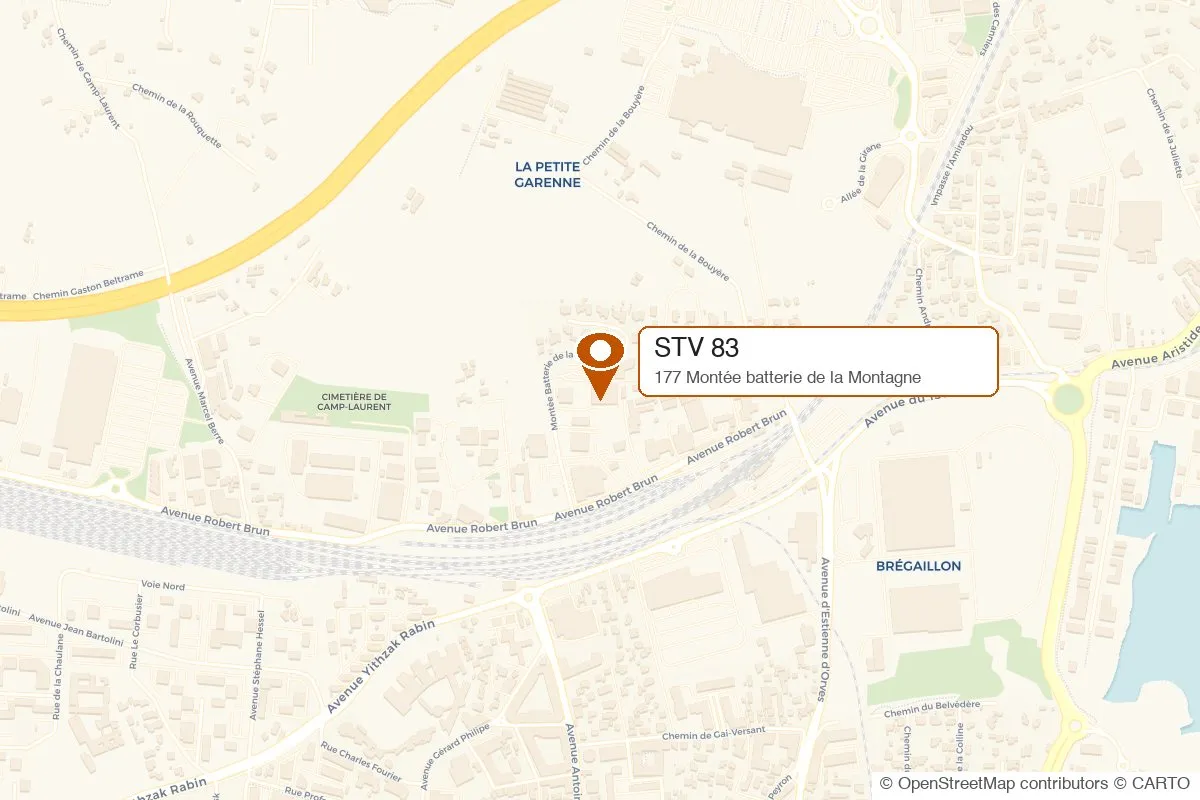
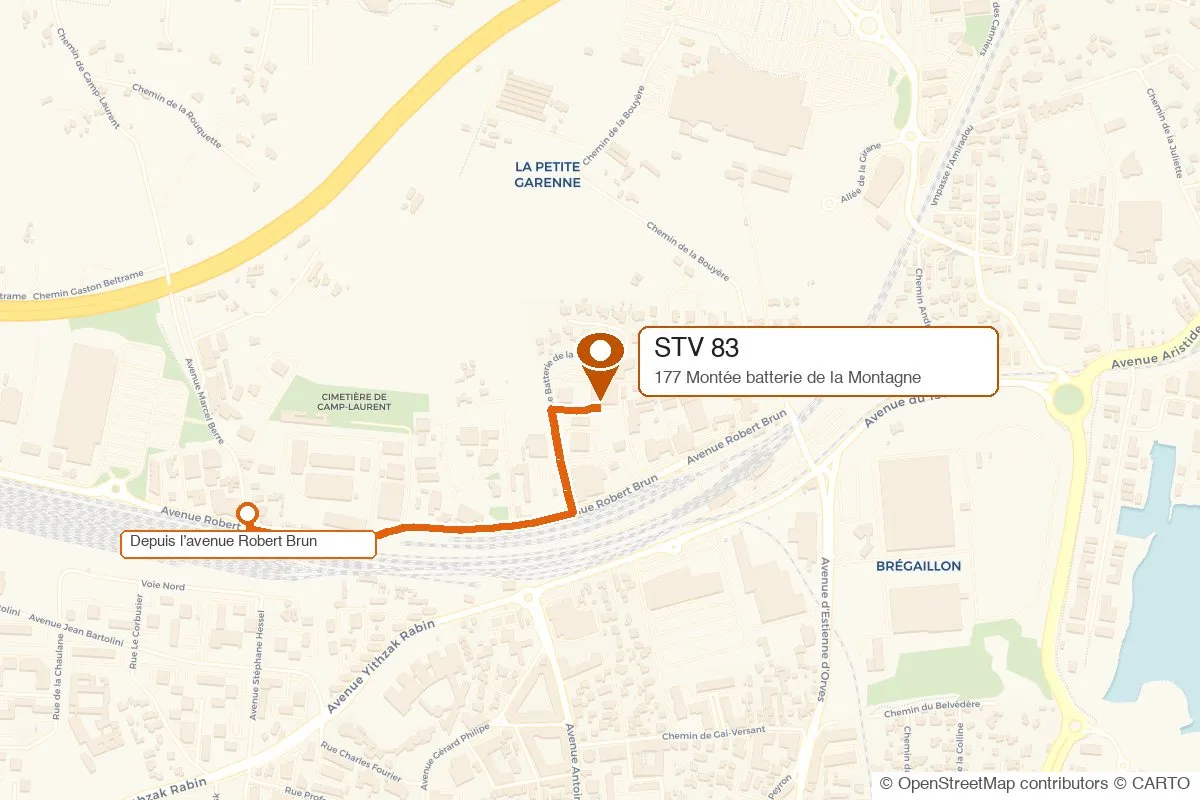
Carte contact : trajet d'accès surligné en orange
Itinéraire réel OSRM (872 m) depuis l'avenue Robert Brun jusqu'à
l'atelier via la Montée Batterie de la Montagne, tracé orange STV
avec casing blanc + pastille et étiquette de départ. CACHE_VERSION v8.

Changed region(s): [[0.0925, 0.5, 0.4933, 0.7188]]

diff --git a/sw.js b/sw.js
@@ -9,7 +9,7 @@
 
 'use strict';
 
-const CACHE_VERSION = 'stv83-v7';
+const CACHE_VERSION = 'stv83-v8';
 
 const PRECACHE_ASSETS = [
   '/index.html',
